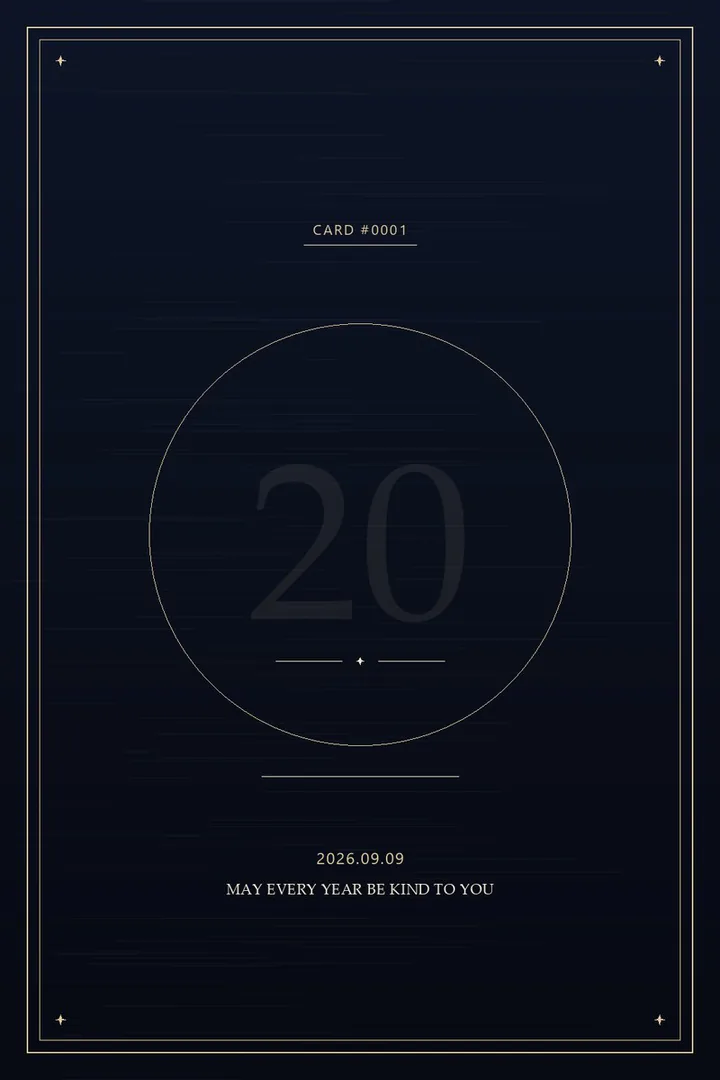
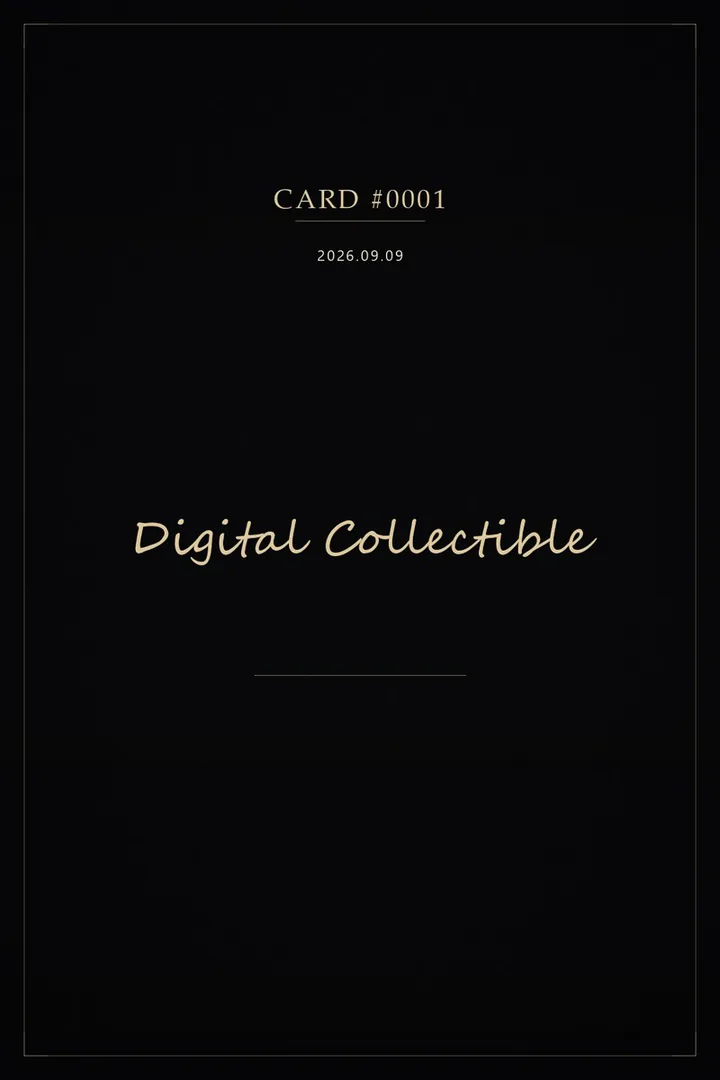
Phase 6 + Phase 7: Schema v2 超集 + 小程序兼容验证
Phase 6 — card.json 升到 2.0, 但输出为"超集"(v1 字段全部保留, 旧包与小程序继续可用):
- card-studio/card_schema.py 新增: schemaVersion 2.0 / occasion(回退 theme) /
  designLanguage / content.message(兼容旧 wish)/ content.note / metadata.note
- 验证: V2 卡 CARD-0038 导出 rc=0(schema 2.0 / personal / portrait / message / note ✓);
  旧生日卡 CARD-0001 导出 rc=0(schema 2.0 / occasion birthday / designLanguage null)✓
  → 旧包兼容

Phase 7 — 小程序兼容验证:
- tools/build_mp_packages.py 白名单加入 V2 字段(occasion/designLanguage/metadata/collection/
  front/back/layers/createdAt) → 不再报"没接住的新字段"
- 修 GBK 控制台打印 emoji 崩溃(sys.stdout.reconfigure(utf-8)), 并修正插入位置
  (必须在 import sys 之后, 之前插在 import 前被 except 吞掉)
- 实测四包: CARD-0001 157KB / CARD-0002 198KB / CARD-0038 198KB(schema 2.0, personal,
  portrait, surface=light)/ CARD-QR01 157KB; 合计 714KB(上限 2048KB)
- tools/check_all.py 全部通过(11/0 与 30/0; 四包分层与背面齐全)
- 结论: 新 V2 卡已能进入现有收藏链路

已知问题: 小程序渲染器对"文字分区材质"只能整体近似(打包器有提示);
          旧包 CARD-0002/CARD-QR01 仍是 schema 1.0(未重导, 需要时重导)。
docs/V2-进度日志.md 已记录。

diff --git a/miniprogram/data/cards/manifest.js b/miniprogram/data/cards/manifest.js
@@ -4,6 +4,7 @@ module.exports = {
   cards: [
     {"cardId": "CARD-0001", "displayId": "CARD #0001", "title": null, "date": "2026-09-09", "surface": "dark", "bgColor": "#080c16", "depth": {"background": -0.3, "subject": 0.34, "effects": 0.64}, "finish": "pearl", "materials": {"frame": {"type": "pearl", "index": 1, "amount": 0.55}, "text": {"type": "matte", "index": 0, "amount": 0.0}, "subject": {"type": "pearl", "index": 1, "amount": 0.55}, "background": {"type": "pearl", "index": 1, "amount": 0.55}}, "foil": 0.55, "holoEnabled": true, "hasBack": true, "layerNames": ["background", "subject", "effects", "text"], "front": "/data/packages/CARD-0001/front.webp", "back": "/data/packages/CARD-0001/back.webp", "layers": {"background": "/data/packages/CARD-0001/layers/background.webp", "subject": "/data/packages/CARD-0001/layers/subject.webp", "effects": "/data/packages/CARD-0001/layers/effects.webp", "text": "/data/packages/CARD-0001/layers/text.webp"}, "fields": {"message": "MAY EVERY YEAR BE KIND TO YOU", "signature": "A DAY WORTH KEEPING", "ownerName": "", "creatorName": "", "qr": false}},
     {"cardId": "CARD-0002", "displayId": "CARD #0002", "title": null, "date": "2026-09-09", "surface": "dark", "bgColor": "#080c16", "depth": {"background": -0.3, "subject": 0.34, "effects": 0.62}, "finish": "pearl", "materials": {"frame": {"type": "pearl", "index": 1, "amount": 0.5}, "text": {"type": "matte", "index": 0, "amount": 0.0}, "subject": {"type": "pearl", "index": 1, "amount": 0.35}, "background": {"type": "pearl", "index": 1, "amount": 0.35}}, "foil": 0.52, "holoEnabled": true, "hasBack": true, "layerNames": ["background", "subject", "effects", "text"], "front": "/data/packages/CARD-0002/front.webp", "back": "/data/packages/CARD-0002/back.webp", "layers": {"background": "/data/packages/CARD-0002/layers/background.webp", "subject": "/data/packages/CARD-0002/layers/subject.webp", "effects": "/data/packages/CARD-0002/layers/effects.webp", "text": "/data/packages/CARD-0002/layers/text.webp"}, "fields": {"message": "一帆风顺", "signature": "", "ownerName": "", "creatorName": "", "qr": false}},
+    {"cardId": "CARD-0038", "displayId": "CARD #0038", "title": null, "date": "2026-09-16", "surface": "light", "bgColor": "#efece6", "depth": {"background": -0.22, "subject": 0.1, "effects": 0.78}, "finish": "pearl", "materials": {"frame": {"type": "gloss", "index": 3, "amount": 0.92}, "text": {"type": "gloss", "index": 3, "amount": 0.72}, "subject": {"type": "matte", "index": 0, "amount": 0.0}, "background": {"type": "matte", "index": 0, "amount": 0.0}}, "foil": 0.6, "holoEnabled": true, "hasBack": true, "layerNames": ["background", "subject", "effects", "text"], "front": "/data/packages/CARD-0038/front.webp", "back": "/data/packages/CARD-0038/back.webp", "layers": {"background": "/data/packages/CARD-0038/layers/background.webp", "subject": "/data/packages/CARD-0038/layers/subject.webp", "effects": "/data/packages/CARD-0038/layers/effects.webp", "text": "/data/packages/CARD-0038/layers/text.webp"}, "fields": {"message": "愿你永远保持热爱", "signature": "", "ownerName": "", "creatorName": "", "qr": false}},
     {"cardId": "CARD-QR01", "displayId": "CARD #QR01", "title": "李四", "date": "2026-09-11", "surface": "dark", "bgColor": "#080c16", "depth": {"background": -0.3, "subject": 0.34, "effects": 0.62}, "finish": "pearl", "materials": {"frame": {"type": "pearl", "index": 1, "amount": 0.5}, "text": {"type": "matte", "index": 0, "amount": 0.0}, "subject": {"type": "pearl", "index": 1, "amount": 0.35}, "background": {"type": "pearl", "index": 1, "amount": 0.35}}, "foil": 0.52, "holoEnabled": true, "hasBack": true, "layerNames": ["background", "subject", "effects", "text"], "front": "/data/packages/CARD-QR01/front.webp", "back": "/data/packages/CARD-QR01/back.webp", "layers": {"background": "/data/packages/CARD-QR01/layers/background.webp", "subject": "/data/packages/CARD-QR01/layers/subject.webp", "effects": "/data/packages/CARD-QR01/layers/effects.webp", "text": "/data/packages/CARD-QR01/layers/text.webp"}, "fields": {"message": "NEW WISH, SAME HEART", "signature": "", "ownerName": "", "creatorName": "", "qr": true}},
   ],
 };

diff --git a/tools/build_mp_packages.py b/tools/build_mp_packages.py
@@ -5,14 +5,12 @@
 用法:
   python tools/build_mp_packages.py                    # 打包 exports/ 下所有卡
   python tools/build_mp_packages.py CARD-0001 CARD-QR01
-
 产出(miniprogram/data/):
   packages/<CARD-ID>/front.webp          正面整图(卡面无素材时用这张)
   packages/<CARD-ID>/back.webp           背面整图(没有背面就不产出)
   packages/<CARD-ID>/layers/*.webp       实际存在的分层(缺失的层不产出文件)
   packages/<CARD-ID>/card.json           精简后的卡牌数据(去掉 _studio 等生成侧参数)
   cards/manifest.js                      卡片索引(小程序直接 require)
-
 要点:
   * 小程序代码包单包上限 2M, 所以图片一律降采样 + WebP; 单张卡约 80KB
   * `surface` 由卡面边缘取色算出: light/dark —— 卡牌页据此自动选背景(浅色卡用浅灰底)
@@ -22,14 +20,17 @@ import json
 import re
 import sys
 from pathlib import Path
-
 from PIL import Image
 
+try:                                  # Windows GBK 控制台: 避免打印 emoji 崩溃
+    sys.stdout.reconfigure(encoding="utf-8")
+    sys.stderr.reconfigure(encoding="utf-8")
+except Exception:
+    pass
 ROOT = Path(__file__).resolve().parent.parent
 EXPORTS = ROOT / "exports"
 MP_DATA = ROOT / "miniprogram" / "data"
 PKG_DIR = MP_DATA / "packages"
-
 LAYERS = ("background", "subject", "effects", "text")
 # 为什么没有 lineart: 网页版 shader 里它是给"主体加高光"的蒙版(tLine),
 # 不是一张可见的图层 —— 当成图层画上去画面就错了。
@@ -37,12 +38,9 @@ WEBP_Q = 82
 FRONT_SIZE = (720, 1080)      # 卡面整图(详情页铺满屏幕时用)
 LAYER_SIZE = (640, 960)       # 分层素材(分层数多, 再压一档)
 BACK_SIZE = (720, 1080)
-
 # 层深度的兜底值(与 shader 的 parallax 同一套参数); 实际取值来自 card.json 的 _studio.parameters
 DEFAULT_DEPTH = {"background": -0.30, "subject": 0.34, "effects": 0.64}
 DEFAULT_FOIL = 0.55          # 材质覆盖层浓度(网页版默认 0.52~0.55)
-
-
 def edge_tone(img):
     """从卡面四周取色判断这张卡是深色还是浅色(决定卡牌页背景)。"""
     im = img.convert("RGB").resize((80, 120), Image.LANCZOS)
@@ -58,15 +56,11 @@ def edge_tone(img):
     b = sum(p[2] for p in pts) / len(pts)
     lum = (0.2126 * r + 0.7152 * g + 0.0722 * b) / 255.0
     return ("light" if lum > 0.62 else "dark"), round(lum, 3)
-
-
 def save_webp(img, dst, size):
     dst.parent.mkdir(parents=True, exist_ok=True)
     out = img.convert("RGBA").resize(size, Image.LANCZOS)
     out.save(dst, "WEBP", quality=WEBP_Q, method=6)
     return dst.stat().st_size
-
-
 # 生成侧/交付侧用、不需要进小程序的顶层字段（逐个核对过, 丢了不影响画面）
 KNOWN_IGNORED_TOP = {
     "_studio",        # 生成侧参数; 渲染要用的已挑出来放进 depth/finish/foil/bgColor
@@ -81,8 +75,6 @@ KNOWN_PARAMS = {"subjectScale", "subjectDepth", "backgroundDepth", "effectsDepth
                 "effectsScale", "foil", "textDepth", "motionStrength"}
 # 小程序会读的 _studio.appearance 键
 KNOWN_APPEARANCE = {"finish", "background"}
-
-
 def known_field_warnings(card, params, appearance):
     """
     工作台在演进(比如新增了 AI 选色、新材质), card.json 会长出新字段。
@@ -100,20 +92,17 @@ def known_field_warnings(card, params, appearance):
         if key not in KNOWN_APPEARANCE:
             warn.append(f"_studio.appearance 出现没接住的新字段: {key}")
     return warn
-
-
 def keep_fields():
+    # V2 超集: 新增 occasion / designLanguage / metadata / collection, 其余保持 v1 不变
     return ("schemaVersion", "cardId", "displayId", "internalId", "theme",
-            "template", "title", "date", "creator", "owner", "content",
-            "material", "interaction", "media", "qr", "status", "cardVersion")
-
-
+            "template", "title", "date", "createdAt", "creator", "owner", "content",
+            "front", "back", "layers",
+            "material", "interaction", "media", "qr", "status", "cardVersion",
+            "occasion", "designLanguage", "metadata", "collection")
 # 材质系统: 区域(边框/文字/主体/背景) × 材质名 —— 与网页版 app.js 的 MAT_INDEX 一致
 MAT_INDEX = {"matte": 0, "pearl": 1, "foil": 2, "gloss": 3}
 MAT_DEFAULT_TYPE = {"frame": "pearl", "text": "matte",
                     "subject": "pearl", "background": "pearl"}
-
-
 def material_regions(card, params, appearance):
     """
     照抄网页版的区域材质推导（app.js）:
@@ -127,7 +116,6 @@ def material_regions(card, params, appearance):
     foil_base = params.get("foil", DEFAULT_FOIL)
     finish = str((appearance or {}).get("finish") or "pearl").lower()
     holo_on = (mat.get("holoEnabled") is not False) and finish != "original"
-
     out = {}
     for key, default_type in MAT_DEFAULT_TYPE.items():
         raw = str(regions.get(key) or default_type).lower()
@@ -141,8 +129,6 @@ def material_regions(card, params, appearance):
             "amount": round(float(amount), 3) if holo_on else 0,
         }
     return out, holo_on
-
-
 def material_warnings(materials):
     """小程序目前用"整体材质覆盖层"近似区域材质, 有偏差时要说出来。"""
     warn = []
@@ -154,8 +140,6 @@ def material_warnings(materials):
         warn.append("各区域材质不一致(" + "/".join(sorted(types)) +
                     "), 小程序只用整体材质近似, 观感会有偏差")
     return warn
-
-
 def hex_luminance(value):
     """#RRGGBB → 0~1 亮度; 不是合法颜色就返回 None。"""
     m = re.fullmatch(r"#?([0-9a-fA-F]{6})", str(value or "").strip())
@@ -164,16 +148,12 @@ def hex_luminance(value):
     h = m.group(1)
     r, g, b = (int(h[i:i + 2], 16) for i in (0, 2, 4))
     return (0.2126 * r + 0.7152 * g + 0.0722 * b) / 255.0
-
-
 def surface_from_color(value):
     """卡牌底色是浅还是深 —— 决定卡牌页用白底还是浅灰底。"""
     lum = hex_luminance(value)
     if lum is None:
         return None, None
     return ("light" if lum > 0.62 else "dark"), round(lum, 3)
-
-
 def trim_card_json(card, params, appearance=None):
     """只保留小程序要用的字段; 生成侧参数(_studio 等)不进小程序包。"""
     keep = keep_fields()
@@ -204,8 +184,6 @@ def trim_card_json(card, params, appearance=None):
     out["materials"] = materials
     out["holoEnabled"] = holo_on
     return out
-
-
 def build_assets(src, dst, card, params):
     """
     把一张卡的素材写成小程序可用的 WebP。
@@ -223,7 +201,6 @@ def build_assets(src, dst, card, params):
     data = trim_card_json(card, params, appearance)
     for warning in material_warnings(data["materials"]):
         print(f"  ⚠  {card.get('displayId') or src.name}: {warning}")
-
     # 1) 正面整图
     front = Image.open(front_src).convert("RGB")
     size_front = save_webp(front, dst / "front.webp", FRONT_SIZE)
@@ -233,7 +210,6 @@ def build_assets(src, dst, card, params):
     else:
         # 没指定才退回到"看图片边缘取色"
         data["surface"], lum = edge_tone(front)
-
     # 2) 背面
     size_back = 0
     back_src = src / "preview" / "back.jpg"
@@ -241,7 +217,6 @@ def build_assets(src, dst, card, params):
         size_back = save_webp(Image.open(back_src).convert("RGB"),
                               dst / "back.webp", BACK_SIZE)
         data["hasBack"] = True
-
     # 3) 分层(只打包真实存在的; 顺手清掉上一版留下的、这一版不再用的文件)
     layer_dir = dst / "layers"
     if layer_dir.is_dir():
@@ -255,12 +230,9 @@ def build_assets(src, dst, card, params):
             layer_bytes += save_webp(Image.open(p), layer_dir / f"{name}.webp",
                                      LAYER_SIZE)
             data["layerNames"].append(name)
-
     sizes = {"front": size_front, "back": size_back, "layers": layer_bytes,
              "total": size_front + size_back + layer_bytes}
     return data, sizes, lum
-
-
 def build_one(pkg):
     src = EXPORTS / pkg
     cfg_path = src / "card.json"
@@ -273,19 +245,15 @@ def build_one(pkg):
     card = json.loads(cfg_path.read_text(encoding="utf8"))
     dst = PKG_DIR / card["cardId"]
     params = ((card.get("_studio") or {}).get("parameters") or {})
-
     data, sizes, lum = build_assets(src, dst, card, params)
     (dst / "card.json").write_text(
         json.dumps(data, ensure_ascii=False, indent=2), encoding="utf8")
-
     print(f"  {data['displayId']:12s} surface={data['surface']}(lum={lum}) "
           f"分层={len(data['layerNames'])}/5 背面={'有' if data['hasBack'] else '无'} "
           f"合计={sizes['total'] / 1024:.0f}KB "
           f"(正{sizes['front'] / 1024:.0f} 背{sizes['back'] / 1024:.0f} "
           f"层{sizes['layers'] / 1024:.0f})")
     return data
-
-
 def write_manifest(cards):
     PKG_DIR.parent.joinpath("cards").mkdir(parents=True, exist_ok=True)
     lines = [
@@ -327,8 +295,6 @@ def write_manifest(cards):
     out = MP_DATA / "cards" / "manifest.js"
     out.write_text("\n".join(lines), encoding="utf8")
     return out
-
-
 def build_all(pkgs=None, verbose=True):
     """把 exports/ 里的卡全部打包进小程序, 并重写索引。返回打包成功的卡片数据列表。
     发布脚本(tools/publish_to_mp.py)也调这个入口, 保证小程序里一定有对应的卡。"""
@@ -341,8 +307,6 @@ def build_all(pkgs=None, verbose=True):
         return []
     write_manifest(cards)
     return cards
-
-
 def main():
     args = sys.argv[1:]
     cards = build_all(args or None)
@@ -353,7 +317,5 @@ def main():
     print(f"\n索引: {(MP_DATA / 'cards' / 'manifest.js').relative_to(ROOT)}")
     print(f"素材总计: {total / 1024:.0f} KB  (小程序主包上限 2048 KB)")
     return 0
-
-
 if __name__ == "__main__":
     sys.exit(main())

diff --git a/card-studio/card_schema.py b/card-studio/card_schema.py
@@ -14,7 +14,7 @@ import uuid
 from datetime import date
 from pathlib import Path
 
-SCHEMA_VERSION = "1.0"
+SCHEMA_VERSION = "2.0"          # V2: 输出为 **超集**(v1 字段全部保留, 旧包/小程序继续可用)
 
 
 def _date_str(v):
@@ -83,6 +83,10 @@ def build_card_json(project, card_id, internal_id=None, theme="birthday", templa
         v = cfg.get(key)
         return str(v).strip() if v not in (None, "") else ""
 
+    occasion = str(cfg.get("occasion") or theme or "personal").strip()
+    design_lang = str(cfg.get("designLanguage") or "").strip()
+    note = s("note")
+
     layers = layers or {}
     data = {
         "schemaVersion": SCHEMA_VERSION,
@@ -90,6 +94,8 @@ def build_card_json(project, card_id, internal_id=None, theme="birthday", templa
         "displayId": display,                # 展示 ID(CARD #0001)
         "internalId": internal_id or (uuid.uuid4().hex[:16]),   # 内部不可预测 ID
         "theme": theme,
+        "occasion": occasion,                     # V2: 纪念场合(birthday/anniversary/travel/...)
+        "designLanguage": (design_lang or None),  # V2: 设计语言(portrait/cyber/editorial/memory)
         "template": f"birthday-{tpl}" if theme == "birthday" else tpl,
         # 正面字段属于 Artwork 内容; 没有就是 null(不虚构、不占位)
         "title": s("title") or None,
@@ -100,9 +106,10 @@ def build_card_json(project, card_id, internal_id=None, theme="birthday", templa
         "content": {
             "age": s("age") or None,
             "subtitle": s("subtitle") or None,
-            "message": s("wish") or None,
+            "message": s("wish") or s("message") or None,   # V2 用 message(兼容旧 wish)
             "signature": s("tagline") or None,
             "name": s("name") or None,
+            "note": (note or None),                          # V2: 客户备注
         },
         "front": {"image": "front.png"},
         "back": {"image": "back.png"} if has_back else None,
@@ -138,7 +145,7 @@ def build_card_json(project, card_id, internal_id=None, theme="birthday", templa
         },
         "status": status,
         "cardVersion": 1,
-        "metadata": {"tags": [], "note": "", "custom": {}},
+        "metadata": {"tags": [], "note": note, "custom": {}},
         "collection": {"collectionId": None},
         # 生成侧参数(Showcase 不读, 供工作台/重制使用)
         "_studio": {
